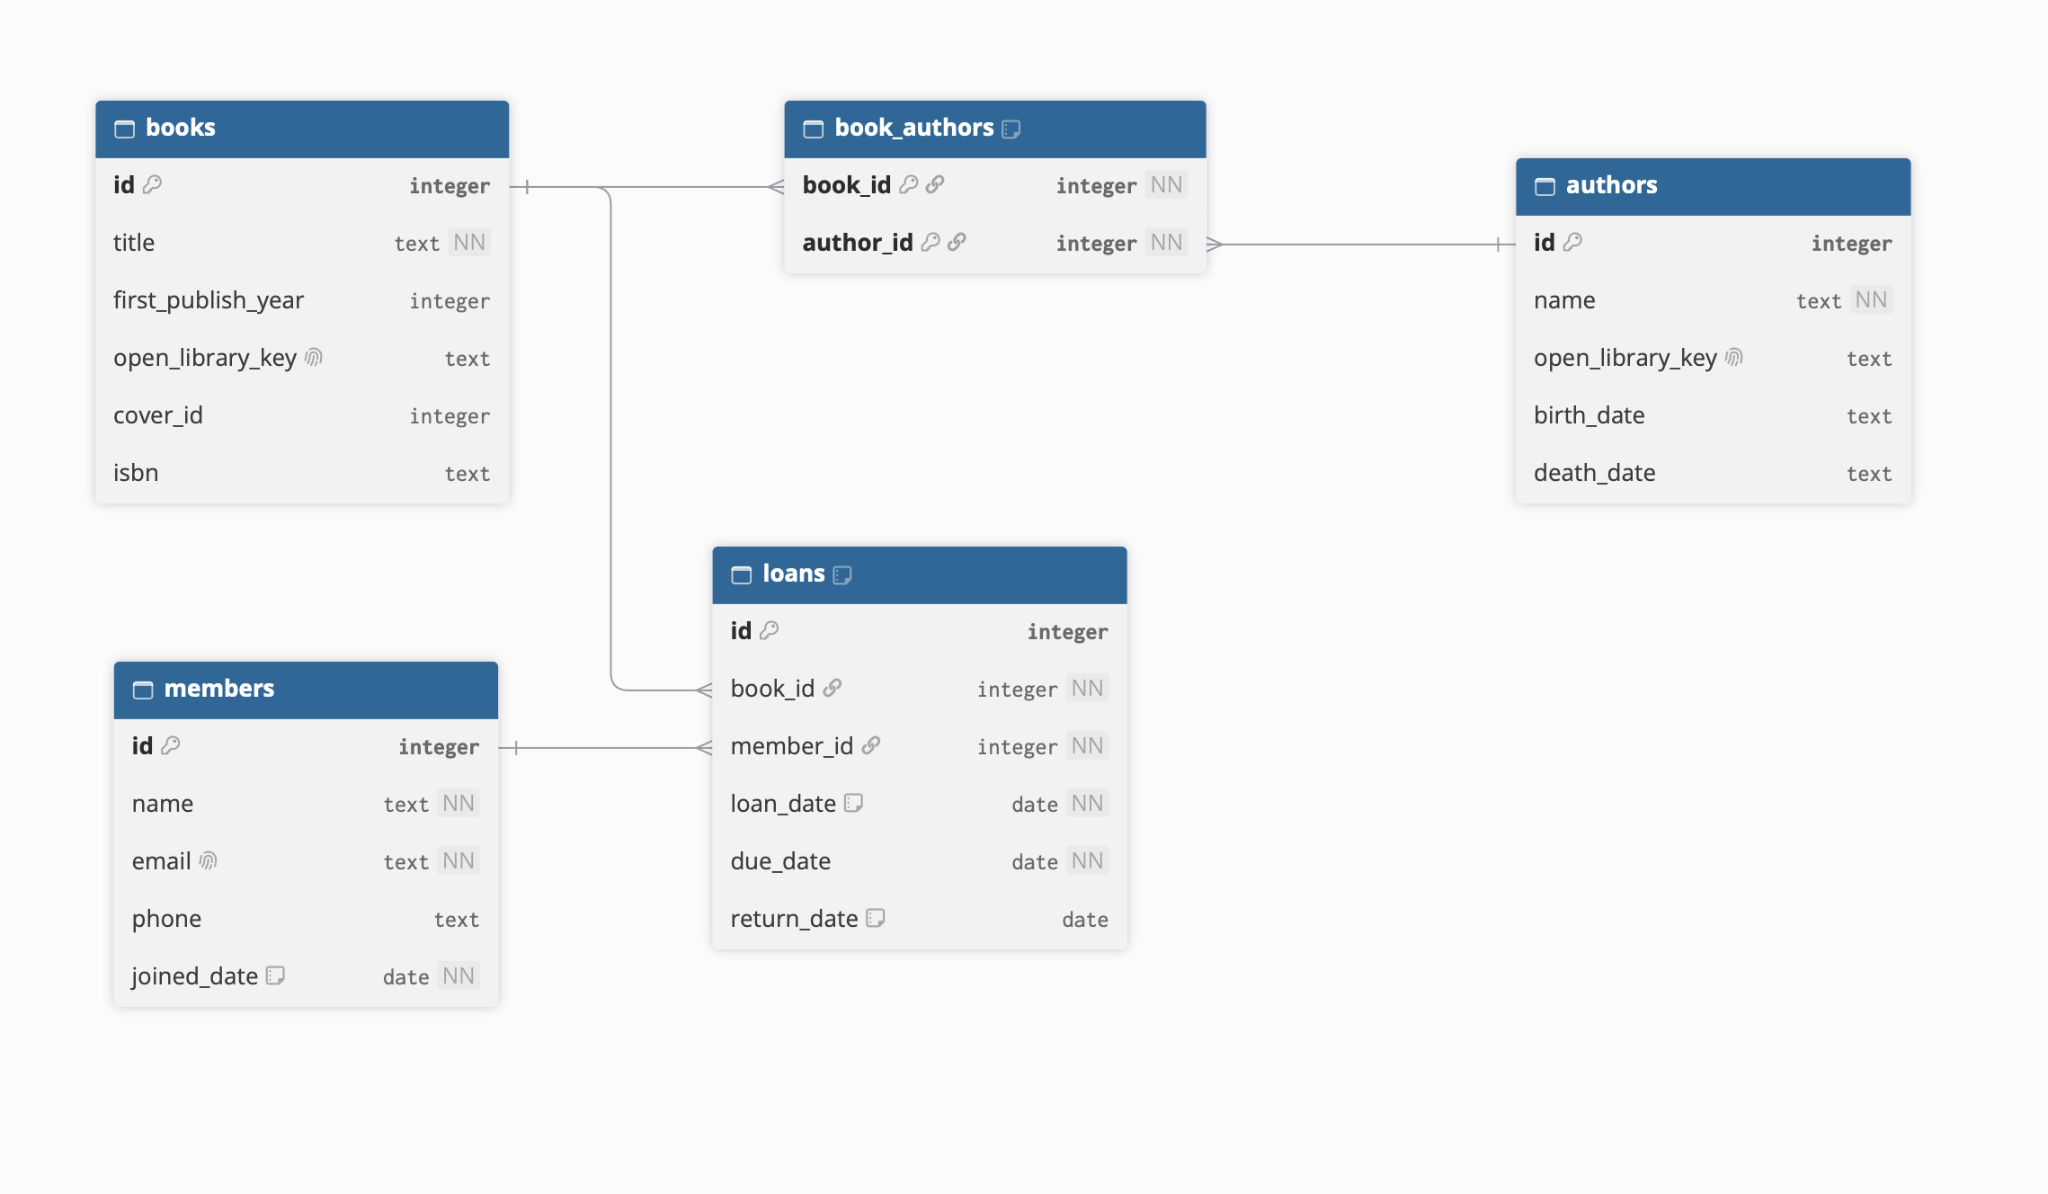
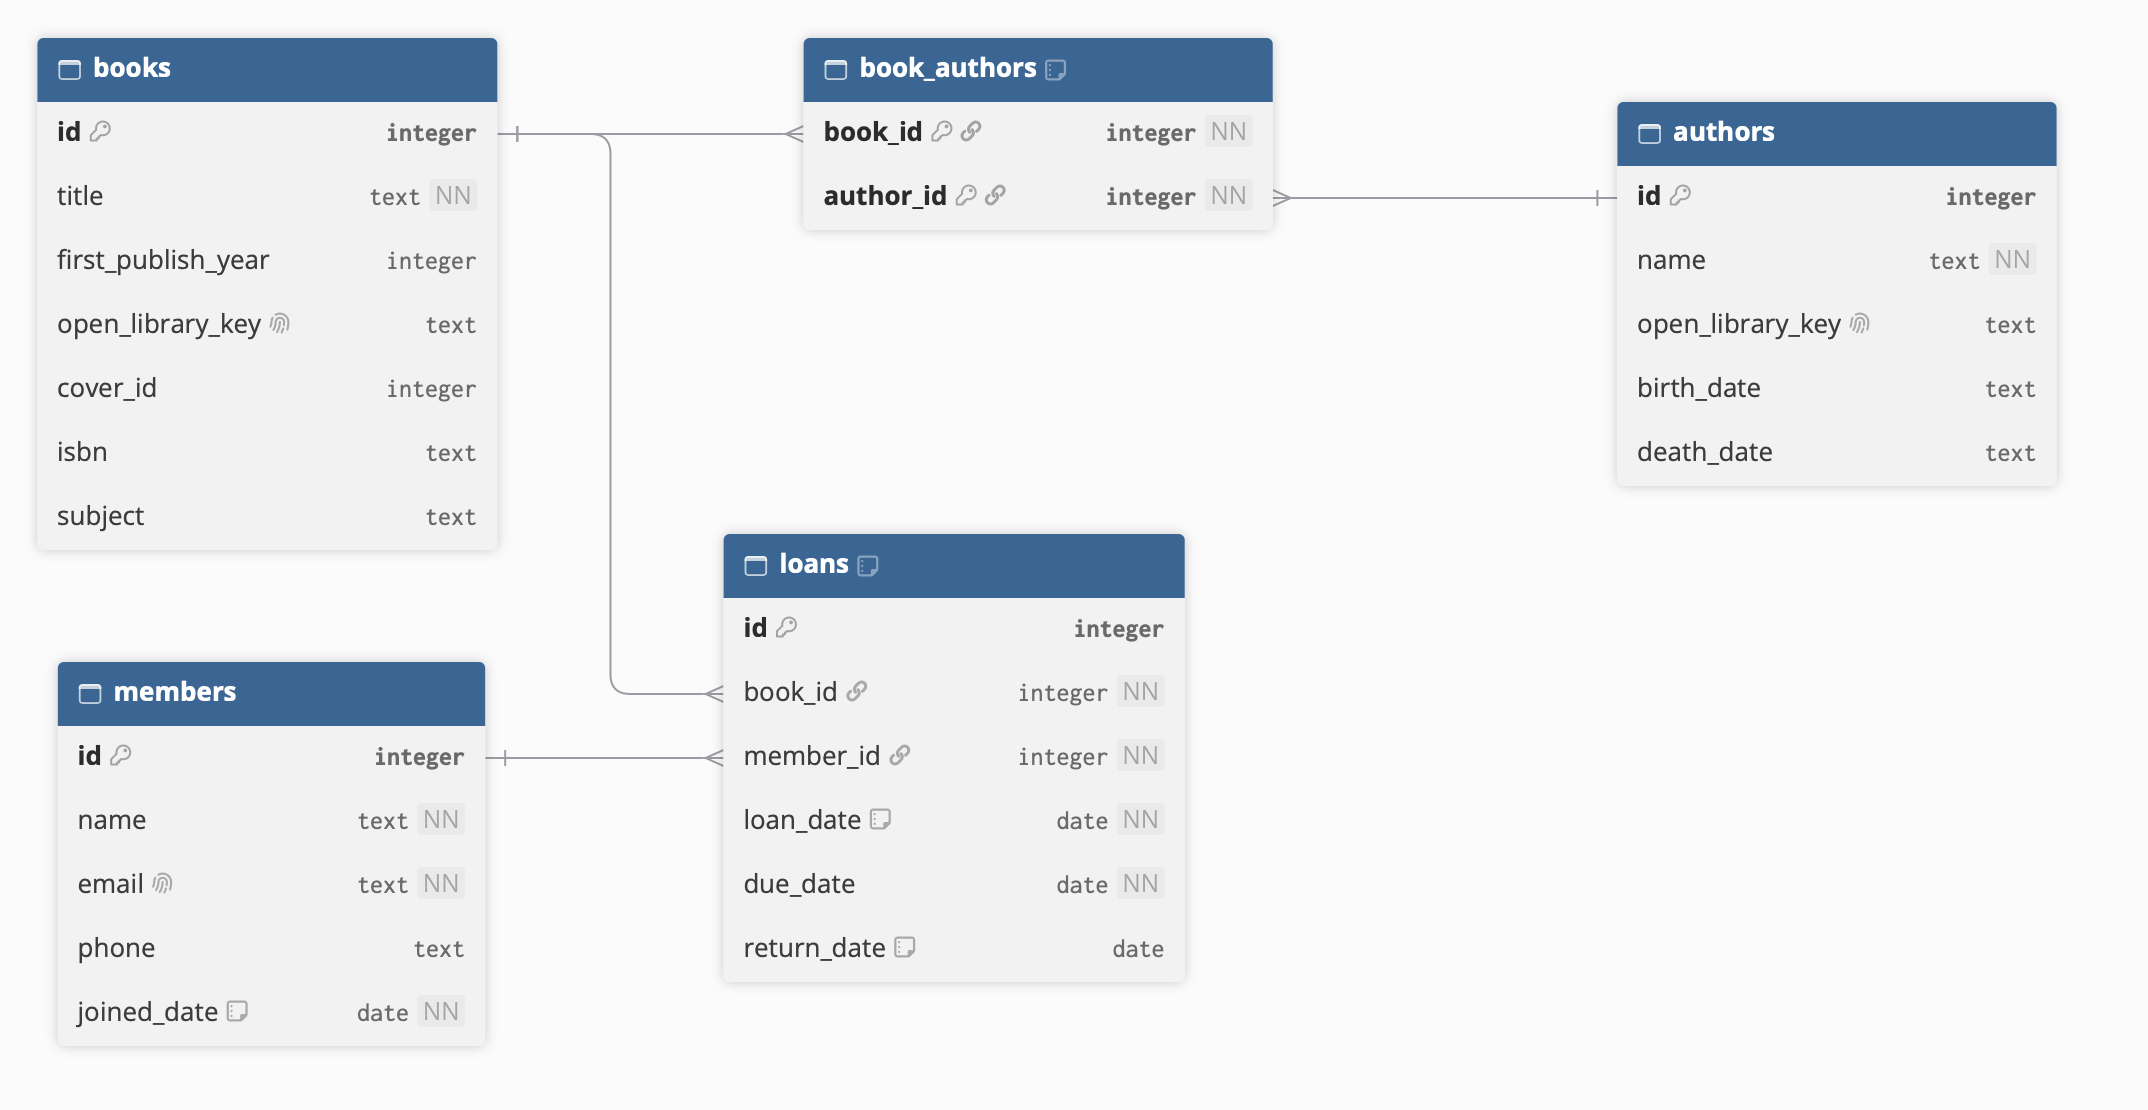
chore: consolidate docs folders and move assets to docs/

diff --git a/CONTRIBUTING.md b/CONTRIBUTING.md
@@ -1,9 +1,9 @@
 <h1>Contribution<h1>
 <h2>Structure</h2>
 
-![ER Diagram](structure.png)  
+![Structure](docs/structure.png)
 
-![ER Diagram](ER.png)      
+![ER diagram](docs/er.png)
 
 <h2>Definition of Done:</h2>
 
